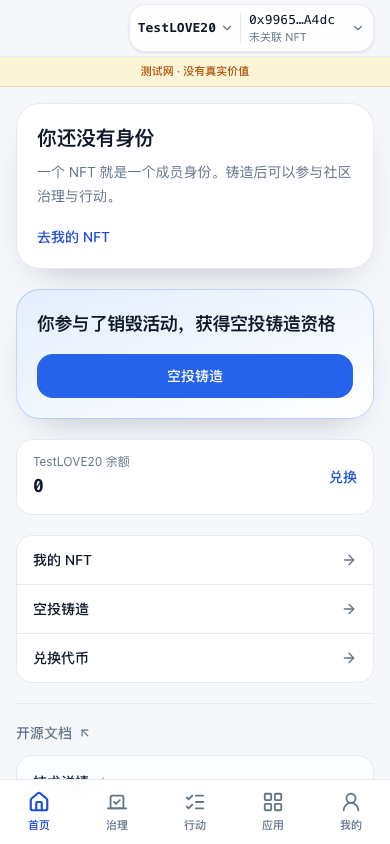
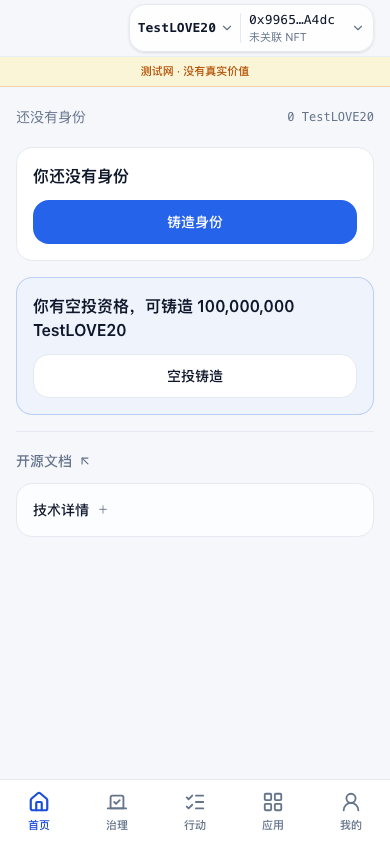
docs(product): document the reminder home, 我的 page and header rule
- §1.3: mobile home keeps the left community mark only while disconnected;
  once connected (including wrong chain) the top-right chip is the single
  community name. Desktop label and secondary pages unchanged.
- §3.1: rewritten as the reminder-feed model — connect entry, always-visible
  thin line into /me, fixed-order reminder cards (no identity, eligible
  airdrop, unconfirmed tx deferred), and exactly one muted sentence when
  nothing applies. Removed the three entry rows and the identity/balance cards.
- §3.7 (new): 我的 carries identity (name + #memberId, 切换身份/转让/查看全部)
  and balance (formatted + 兑换), then the account/version/docs blocks; no
  filled button, all copy in the copy modules.
- §3.2 entry points and the §6 walkthrough steps follow the new home.
- Regenerated the 390×844 evidence: home-disconnected,
  home-connected-with-identity, home-airdrop-eligible, home-wrong-network,
  home-no-identity, me-profile; retired home-connected-no-identity (superseded
  by home-no-identity with the new reminder layout).

diff --git a/docs/product/m0-ux-spec.md b/docs/product/m0-ux-spec.md
@@ -34,30 +34,30 @@
 | 2 | 治理 | `/governance?symbol=` | `Vote` | 占位 |
 | 3 | 行动 | `/actions?symbol=` | `ListChecks` | 占位 |
 | 4 | 应用 | `/apps?symbol=` | `LayoutGrid` | 可用（功能页目录） |
-| 5 | 我的 | `/me?symbol=` | `UserRound` | 占位 |
+| 5 | 我的 | `/me?symbol=` | `UserRound` | 可用（身份 + 余额） |
 
 - **「应用」取代「链群」（2026-11-11 owner 决定）**：第 4 项是功能页目录 `/apps?symbol=`（图标 `LayoutGrid`），把创世空投、身份 NFT、代币兑换以及今后独立的功能页集中管理。**未来页面只加一条目录数据，不加导航代码**；功能页多起来后按条目的 `category` 自动分组（≥2 个分类才出现分组标题）。`/group` 路由保留给旧深链（占位页，不 404），但底栏不再出现「链群」。
 
 - 移动端：24px 图标 + 11px 标签，激活态用实心图标 + 强调色；**不做中央凸起**——凸起会把一个不可用功能伪装成主入口（参考实现把「社区行动」凸起，实际是 M2 能力）。
 - 桌面侧栏：5 项同序，激活项左侧 3px 指示条；顶部折叠按钮，折叠状态记在 `love20:v1:<chainId>:ui:<wallet>:sidebar`；底部放版本号 + 测试网徽标 + 「合约地址」入口（与钱包弹层同一弹层）。
-- **占位页不是空白**：标题 + 「即将上线」徽标 + 一句将提供什么 + 一句为什么现在没有 + 「回首页」。文案：治理「用身份对提案投票，按治理轮结算。M0 只做身份与兑换，这一页还没有内容。」；行动「链群行动、链群服务、LP 行动将在后续版本开放。」；我的「个人中心还在做。现在可以从首页或右上角进入『我的 NFT』。」（「我的」额外给一个「去我的 NFT」文字链）。`/group` 的旧占位页仍在，供旧深链打开，但不再是主导航项。
+- **占位页不是空白**：标题 + 「即将上线」徽标 + 一句将提供什么 + 一句为什么现在没有 + 「回首页」。文案：治理「用身份对提案投票，按治理轮结算。M0 只做身份与兑换，这一页还没有内容。」；行动「链群行动、链群服务、LP 行动将在后续版本开放。」。我的不再是占位页：它承接身份与余额（§3.7）。`/group` 的旧占位页仍在，供旧深链打开，但不再是主导航项。
 - 底部栏不显示徽标计数；经典「红点」留给以后有真实未读时再用。
 
 ### 1.3 页面头部规则
 
 | 页面类型 | 左 | 中 | 右 |
 |---|---|---|---|
-| 一级（首页） | 移动端（<md）：无（**不渲染品牌字标**）；桌面（≥md）：「首页」文字标签（社区名在左侧栏顶部） | — | 完整药丸（chip + 地址/身份）；已连接时它是移动端页头唯一的社区名位置 |
+| 一级（首页） | 移动端（<md）：**未连接时**社区 `symbol()`（无社区/未知回退「LOVE20协议」）；已连接（含错网络）隐藏。桌面（≥md）：「首页」文字标签（社区名在左侧栏顶部） | — | 完整药丸（chip + 地址/身份）；已连接时它是移动端页头唯一的社区名位置 |
 | 二级（我的 NFT / 铸造身份 / 空投铸造 / 兑换代币 / 应用） | 返回按钮 44×44 | 标题，单行 `truncate`，最长 8 字 | 药丸：chip 收成 28px 首字符圆徽（<480px），右触发区保留 |
 | 占位页 | 返回按钮 44×44 | 标签名（治理 / 行动 / 我的；`/group` 旧深链为「链群」） | 药丸：chip 收成 28px 首字符圆徽（<480px），右触发区保留 |
 | 收据态（页面内状态） | 「关闭」→ 首页 | 结果标题（铸造成功 / 兑换完成 / 已铸造） | 紧凑药丸（仅右触发区） |
 
-- **移动端首页没有左侧品牌字标（2026-11-11 owner 决定）**：页头左侧原来渲染当前社区 `symbol()`，与右上角 chip 重复。现在移动端首页页头只有右上角药丸；已连接时社区名由药丸的 chip 承载，桌面端由左侧栏顶部字标承载，二级页与占位页由标题承载。**已知后果（刻意接受的取舍，待 owner 最终确认）**：钱包未连接时右上角只有「连接钱包」，因此移动端首页页头完全不显示社区名；不为此新增第二处社区名或第二个连接入口。
+- **移动端首页：未连接保留左侧标识，连上后由右上角 chip 承担（2026-11-11 owner 决定）**：未连接时右上角只有「连接钱包」，左侧社区标识是移动端唯一社区名；连上后（含错网络）左侧标识隐藏，社区名由右上角药丸的 chip 承载。桌面端仍由左侧栏顶部字标承载，二级页与占位页由标题承载。左侧标识是文字标签，不是第二个首页链接；不新增第二处社区名或第二个连接入口。
 - 返回：有历史 → `back`；无历史（直接打开深链）→ 回首页。始终有返回，深链不产生无出口页面。
 - 页内标题只描述页面，不重复社区名；社区名在 chip 里。避免「铸造身份 · FOO」这种双标题。
 - **社区名 = `symbol()`；`name()` 只用于技术详情/调试信息，不进主界面。** 只要界面出现「当前社区的名字」——桌面侧栏品牌行、右上角社区 chip、含社区名的页面标题、任何元信息行——一律渲染链上 `symbol()`（如 `TestLOVE20`）。没有选中/未知社区时，这些位置回退到协议标签「LOVE20协议」——它命名的是协议，不是一个代币社区；LOVE20 社区被选中时，社区名就是它自己的 `symbol()`「LOVE20」。页内标题原则上仍不重复社区名（见上一条）；若某个页内标题确实带上社区，用 `symbol()`。`name()` 是形如 `<子币 symbol>@<父币 symbol>` 的复合技术标识（如 `TestLOVE20@TestWETH`），不是显示名，不得用作社区名。
 - **浏览器标签页标题**：有当前社区时 `<页面> · <社区 symbol>`；没有选中/未知社区时只写「LOVE20协议」。社区名同样取 `symbol()`，不用 `name()`。
-- 药丸在手机与桌面位置相同（右上角），不做第二处连接入口，也不在移动端页头另设品牌字标；社区名只由药丸 chip（已连接时）、桌面侧栏或页内标题承载。
+- 药丸在手机与桌面位置相同（右上角），不做第二处连接入口；移动端社区名只由未连接时的左侧标识或连上后的药丸 chip 承载。
 
 ### 1.4 右上角连接药丸
 
@@ -157,48 +157,47 @@
 
 ### 3.1 首页
 
-**用户一句话目标**：打开就知道「我是谁、现在该做什么」。
-**进入条件与前置**：可未连接浏览；`?symbol=` 缺省补首币；身份取自本地选择并已按 `ownerOf` 校验。空投资格来自快照懒加载 chunk（见下），**不进入首屏包，也不阻塞身份区**。
+**用户一句话目标**：打开就知道「有没有需要我处理的事」；没有就保持干净。
+**定位（2026-11-11 owner 决定）**：首页是**提醒流**，不是导航页。导航入口在「应用」目录（§3.6）；身份与余额的完整信息在「我的」（§3.7），首页只保留一条细行。没有重要信息或事项需要提醒时，首页应该很干净。
+**进入条件与前置**：可未连接浏览；`?symbol=` 缺省补首币；身份取自本地选择并已按 `ownerOf` 校验。空投资格来自快照懒加载 chunk（见下），**不进入首屏包，也不阻塞细行与无身份提醒**。
 
-**区块顺序**
-1. **身份区（首屏）** — 三态（另单独处理身份失效）：
-   - 未连接：身份说明「一个钱包可以拥有多个身份，身份才是参与凭证。」+「连接钱包」（与右上角药丸是同一个连接动作与状态，不新增第二套连接入口）。
-   - 已连接、无身份：「你还没有身份」+「去我的 NFT」文字入口。**首页不做铸造判断**：不出现「铸造身份」主 CTA，也不按 LOVE20 余额或空投资格决定去向；铸造由「我的 NFT」空态与 §3.3 承接。
-   - 已连接、有身份：「你好，{memberName}」+ `#{memberId}` +「切换身份」文字入口（→ 我的 NFT，页内用「使用此身份」完成本地切换）。
-   - 身份失效（`ownerOf` 不符）：清除本地选择，中性提示「这个身份已不属于当前钱包」，回落到无身份形态（仍持有其他身份时状态为「未选择身份」，一个都没有时才是「无身份」），不指责用户。
-2. **空投资格卡（条件出现，全页唯一主 CTA）** — **仅当**钱包在快照中有未铸造条目且 `claimableAmount(...) > 0` 时出现。卡内只有标题「你参与了销毁活动，获得空投铸造资格」与主按钮「空投铸造」；**没有副标题、没有解释句**（金额在 §3.4 展示）。按钮跳转空投铸造页并保留当前 `?symbol=`。
-3. **余额一行** — `LOVE20` 余额（精确，2 位），右侧「兑换」文字链；不展示 BNB（在钱包弹层里）。
-4. **三个常驻导航入口** — 我的 NFT / 空投铸造 / 兑换代币，纯文字行，不与主按钮同色。入口行只是导航，**不代表空投资格**；资格只由第 2 块决定。
-5. **页脚** — 开源文档链接「开源文档」→ `https://love20bsc.github.io/docs/`（新标签打开）。其下是默认折叠的「技术详情」，收版本号与 LOVE20 / MemberNFT / Airdrop / Router / 交易对地址 + 区块浏览器链接（与 §1.6 钱包弹层的「合约地址」同源）。合约地址与版本号不再直接铺在页脚；测试网横幅仍按 §1.7 全局渲染。
+**区块顺序（自上而下，每一块都条件渲染）**
+1. **未连接 → 连接入口** — 说明「一个钱包可以拥有多个身份，身份才是参与凭证。」+「连接钱包」（与右上角药丸是同一个连接动作与状态，不新增第二套连接入口）。
+2. **细行（常驻）** — 单行、无卡片边框、整行可点 → `/me`（保留当前 `?symbol=` 与其他 query）。左 = 当前身份名（如 `Testdev-member-0`；没有/未选择当前身份为「还没有身份」，读取中或未知为「—」），名称 `truncate`；右 = 当前社区代币余额 `99,799,100 TestLOVE20`（走 `formatTokenAmount`，未知为「—」）。**没有「你好」问候、没有身份胶囊、没有「切换身份」按钮**；名称与余额都不换行，390px 下仍是单行。
+3. **提醒卡（按固定顺序，仅适用时出现）**
+   - **无身份**：「你还没有身份」+「铸造身份」→ `/mint`。
+   - **有空投资格且未铸造**：「你有空投资格，可铸造 {X} {symbol}」+「空投铸造」→ `/airdrop`（保留当前 `?symbol=`）。`X` 来自 `claimableAmount`；金额或首币 symbol/decimals 读不到时**省略金额分句**（只写「你有空投资格」），绝不把「—」写进句子里。
+   - **有未确认交易**：「1 笔交易还没确认」+「查看」。**M0 未实现**：今天三个写流程各自持久化自己的记录（`mintTask` / `airdropClaim` / `swapReceipt`），没有统一的 pending-tx 读取模型；在出现单一持久化 pending 辅助函数前，这张卡不渲染，也不伪造数量（见 `home-page.tsx` 的 TODO）。
+4. **没有适用项** — 只有一句弱化文案「现在没有需要你处理的事。」，没有提醒卡、没有实心按钮。
+5. **页脚（不变）** — 开源文档链接「开源文档」→ `https://love20bsc.github.io/docs/`（新标签打开）。其下是默认折叠的「技术详情」，收版本号与社区代币 / MemberNFT / Airdrop / Router / 交易对地址 + 区块浏览器链接（与 §1.6 钱包弹层的「合约地址」同源）。
 
-**快照加载与资格卡显隐**
-- 空投快照 JSON 是**首屏渲染之后才 `import()` 的懒加载 chunk**：身份区、余额与入口先可用，快照数据就绪后资格卡原地出现；**不预留占位、不显示骨架、不阻塞或替换身份区**。
-- 快照未就绪 → 不显示资格卡；钱包不满足资格 → 不显示资格卡，也不写「无资格」或「无需操作」。
-- chunk 读取失败 → 页内一行低权重「空投资格暂时读不到」+「重试」，**不出现资格卡**。
+**已移除（2026-11-11）**：三个常驻入口行（我的 NFT / 空投铸造 / 兑换代币，已在 `/apps`）；独立的身份卡与余额卡（身份与余额去 §3.7）；首页不再按 LOVE20 余额不足追加提醒，也不出现「无需操作」静默态之外的额外说明。
+
+**快照加载与提醒卡显隐**
+- 空投快照 JSON 是**首屏渲染之后才 `import()` 的懒加载 chunk**：细行与无身份提醒先可用，快照数据就绪后空投提醒卡原地出现；**不预留占位、不显示骨架、不阻塞细行**。
+- 快照未就绪 → 不显示空投提醒卡；钱包不满足资格 → 不显示卡，也不写「无资格」。
+- chunk 读取失败 → 不显示空投提醒卡；首页保持干净（不额外造一行错误文案）。
+
+**实心按钮**：一屏最多一个实心按钮。只有第一张出现的提醒卡提供它：无身份卡在前，所以同时存在时它用实心，空投卡用描边；只有空投卡时它是实心。未连接时实心按钮是「连接钱包」。细行与页脚永远不是实心按钮。
 
 **状态与错误**
-- 未连接 · 加载（身份区与余额骨架，最多 1.5s）· 无身份 · 有身份 · 身份失效 · 资格卡出现 · 资格卡不出现 · 错误（身份 / 余额 / 资格）· pending（顶部任务条，不遮页面）。
-- 任何错误态都提供「重试」：身份或余额读不到 → 对应区域显示错误行 + 「重试」，不渲染 `0`、不伪装成无身份或零余额；资格读不到 → 见上。
-- 任一屏最多一个实心按钮：未连接时是「连接钱包」；有资格时是「空投铸造」；其余情况不出现实心按钮。
+- 未连接 · 加载（细行「—」）· 无身份 · 有身份 · 身份失效（清除本地选择，中性回落到无身份/未选择，不指责用户）· 空投卡出现 · 空投卡不出现 · 错误。
+- 任何未知值用「—」，不渲染 `0`、不伪装成无身份或零余额；首页不新增错误气泡，重试入口留在「我的」与各任务页。
 
-**主 CTA 与次要入口**：有资格时唯一主 CTA 是资格卡内的「空投铸造」；无资格时没有主 CTA，只有身份区与入口行的文字入口。身份区的「去我的 NFT / 切换身份」与入口行均为文字链，不与主按钮同色同权。
-**死路处理**：不设「无需操作」态。首页是导航页而不是任务终局：身份区始终给出下一步（连接 / 去我的 NFT / 切换身份），入口行常驻，因此资格卡缺席不会被读成「漏了什么」；无需额外静默文案。
-**加载骨架**：身份区两行短条 + 余额一行灰条 + 入口行灰条；资格卡不占位、不出骨架。
 **验收**
-- 未连接打开：看到「连接钱包」与身份说明，并能连接。
-- 连接后无身份：看到「你还没有身份」与「去我的 NFT」；不出现「铸造身份」主 CTA，也不因 LOVE20 余额或空投状态改判去向。
-- 连接后有身份：看到「你好，{memberName}」+ `#id` +「切换身份」，点「切换身份」进入我的 NFT。
-- 有资格：资格卡出现，标题与按钮文案逐字正确，且没有副标题 / 解释句；点按钮进入空投铸造页。
-- 无资格：资格卡不出现，页面其余内容正常，且没有任何「无需操作」文案。
-- 资格读取失败：出现「空投资格暂时读不到」+「重试」，不出现资格卡，身份区不受影响。
-- 身份被转走后刷新：看到中性提示「这个身份已不属于当前钱包」，回落到无身份形态（仍持有其他身份时是「未选择身份」），不出现任何指向旧身份的操作。
-- 快照 chunk 晚于首屏：身份区先可用，卡片在数据就绪后出现，不遮挡、不阻塞身份区。
-- 任一屏最多一个实心按钮。
+- 未连接打开：左侧社区标识可见；看到「连接钱包」与细行，细行为 `/me` 链接。
+- 连接后有身份、无事可做：左上标识消失；细行显示 `{memberName}` 与带千分位的 `{余额} {symbol}`；页面只有「现在没有需要你处理的事。」这一句，实心按钮 = 0。
+- 连接后无身份：出现「你还没有身份」+「铸造身份」，点击进入 `/mint`。
+- 有资格：出现「你有空投资格，可铸造 {X} {symbol}」+「空投铸造」，点击进入 `/airdrop` 并保留 `?symbol=`；金额未知时句子里没有「—」。
+- 无资格：空投提醒卡不出现。
+- 身份被转走后刷新：中性提示语义由「我的」承担；首页回落到无身份提醒，不出现指向旧身份的操作。
+- 快照 chunk 晚于首屏：细行先可用，提醒卡在数据就绪后出现，不遮挡、不阻塞细行。
+- 任一屏最多一个实心按钮；390px 下细行不换行。
 
 ### 3.2 我的 NFT
 
 **用户一句话目标**：看清我有几个身份、现在用哪个，并立即换一个。
-**进入条件与前置**：需连接（页内连接）；从首页入口或钱包弹层身份行进入。身份列表 = `balanceOf(wallet)` + `tokenOfOwnerByIndex(wallet, i)`（Multicall3 批量）+ `memberName(tokenId)`。
+**进入条件与前置**：需连接（页内连接）；从「应用」目录、`我的`页身份块（§3.7）或钱包弹层身份行进入。身份列表 = `balanceOf(wallet)` + `tokenOfOwnerByIndex(wallet, i)`（Multicall3 批量）+ `memberName(tokenId)`。
 
 **布局（参照参考实现的同页，只取结构）**
 - `<md`：**卡片行**，一个身份一张卡，卡内依次是 `#memberId`、`memberName`、当前身份 pill 与操作。
@@ -405,6 +404,26 @@
 - 本构建缺少 Airdrop 地址时，创世空投一行是禁用态并写明原因，点它不导航；其余已配置的条目照常可点。
 - 页面上没有实心按钮。
 
+### 3.7 我的
+
+**用户一句话目标**：看清我是谁、有多少余额，并在这里切换身份或去兑换。
+**进入条件与前置**：底栏第 5 项「我的」（`/me?symbol=`）；可未连接浏览，未连接时身份与余额显示为不可用，不发起假数据。**身份与余额从首页卡片移到这里（2026-11-11 owner 决定）**，首页只留一条细行（§3.1）。
+
+**区块顺序**
+1. **我的身份** — 当前身份名 + `身份 #{memberId}`；文字链「切换身份」「转让」「查看全部」都进入 `/my-nft`（保留当前 `?symbol=`；转让在「我的 NFT」行内抽屉完成）。无身份 → 「你还没有身份」+「铸造身份」→ `/mint`。持有身份但未选择 → 「还没有选择当前身份」+「切换身份 / 查看全部」。身份失效 → 中性提示「这个身份已不属于当前钱包，已为你清除选择。」并回落到无身份/未选择。读取中显示「读取身份中…」；读不到显示「身份暂时读不到」+「重试」。
+2. **我的余额** — 当前社区代币余额（精确值，走 `formatTokenAmount`，如 `99,799,100 TestLOVE20`），同行右侧「兑换」文字链 → `/swap?symbol=`（保留当前社区）。社区代币在本构建未配置 → 一行诚实的不可用说明「这个环境还没有配置社区代币，暂时看不到余额。」，不显示「兑换」。
+3. **账户** — 钱包地址（缩写）/ 未连接；网络名与链 ID。
+4. **关于** — 版本（build id + 变体）与「开源文档」链接。
+
+**主 CTA 与次要入口**：本页是设置式列表，**没有实心按钮**；所有动作都是文字链，符合「一屏最多一个实心按钮」。
+**文案**：全部在 `copy-pages.ts` 的 `me` 命名空间（懒加载页 chunk）。
+**验收**
+- 有身份打开：看到名字、`身份 #{memberId}`、三个进入「我的 NFT」的文字链。
+- 余额：显示当前社区代币的千分位余额与「兑换」链接，链接保留 `?symbol=`。
+- 无身份：显示「你还没有身份」+「铸造身份」，点击进入 `/mint`。
+- 未配置社区代币：显示不可用说明，不显示余额与「兑换」。
+- 全页没有实心按钮。
+
 ## §4 横切交互规范
 
 ### 4.1 授权 → 执行：按钮阶梯
@@ -476,8 +495,8 @@
 
 **前置**：`vite preview --base=/<repo>/` 跑构建产物（不是 dev server）；Playwright + 注入型测试钱包（EIP-1193 stub + 本地私钥签名）；链 = 本地 anvil 31337，`make bootstrap` 起链并 seed：首币池注入 **200,000 LOVE20 + 100 WETH**（`SEED_LIQUIDITY_TOKEN_AMOUNT=2e23`、`SEED_LIQUIDITY_PARENT_TOKEN_AMOUNT=1e20`，见 ADR-0004）；dev 的地址与 ABI 只读 `anvil/export/deployments/anvil31337_dev.json` 与 `anvil/export/abis/*.json`（前端消费副本 `src/config/deployments/anvil31337_dev.json`）。fixture 的 anvil 0–9 号账户都在快照内（0–4 已铸造，5–9 有份额未铸造），所以主流程必须用**不在快照内**的新私钥（先从一个 anvil 账户转一点原生币（anvil：ETH）作 gas）。GitHub owner 与仓库名已定（`LOVE20BSC/interface-dev` / `interface-test` / `interface`，见 ADR-0002 §4），环境变体由 CI 按仓库名关键字选择（含 `dev` → dev，否则含 `test` → test，否则 prod；`vars.VITE_ENV` 可覆盖），发布命令为 `pnpm release-to <target>`（ADR-0002 §4）；**只有里程碑最终排期〔待定〕**。`--base` 由 CI 变量注入，脚本不得硬编码。
 
-1. **打开 `/` → 未连接 → 连接**：未连接态 = 品牌一句话 + 「连接钱包」；底部 5 tab 可见；逐个点占位页，都应看到「即将上线」、一句说明与「回首页」，无空白、无半成品表单。点「连接钱包」→ 药丸变为两区，URL 补上 `?symbol=<首币>`。
-2. **无身份 → 去我的 NFT**：首页身份区显示「你还没有身份」+「去我的 NFT」；**不出现「铸造身份」主 CTA、不出现「无需操作」，也不因 LOVE20 余额或空投资格改判去向**。点「去我的 NFT」→ 我的 NFT 空态「你还没有身份。」+「铸造身份」。
+1. **打开 `/` → 未连接 → 连接**：未连接态 = 左侧社区标识 + 「连接钱包」+ 细行；底部 5 tab 可见；治理/行动占位页显示「即将上线」、一句说明与「回首页」，无空白、无半成品表单。点「连接钱包」→ 左侧标识隐藏、药丸变为两区，URL 补上 `?symbol=<首币>`。
+2. **无身份 → 铸造身份**：首页提醒流显示「你还没有身份」+「铸造身份」；细行左侧为「还没有身份」。点「铸造身份」→ `/mint`。「我的」页同时显示无身份与「铸造身份」入口（§3.7）。
 3. **进入铸造页（从我的 NFT 空态的「铸造身份」）** → 名称可输入；费用卡出现「预计 {cost} LOVE20」，下方「我的 LOVE20：0」被标成不足；余额旁有次级「去兑换代币」文字链；不出现整页 spinner。
 4. **输入 7+ 字节且以 `Test` 开头的名字**（如 `Teste2e-member`）→ 检查行「可以用」；再输入一个不以 `Test` 开头的名字 → 看到「名称必须以 Test 开头」且不能提交；余额不足 → 资金分支卡出现。
 5. **点分支卡「用 BNB 兑换」**（本地 anvil 按环境包渲染为「用 ETH 兑换」）→ 落在兑换页且 URL 同时带 `?symbol=<首币>&from=<原生币>&to=<首币>`（不是当前子币）；在「从」输入 `0.05` 原生币（本地 anvil 为 `ETH`）→ 见「预计可得」、路径行与更小的「最少到账」。
@@ -486,8 +505,8 @@
 8. **回铸造页 → 「1 授权」** → 授权确认后**停在本页**，按钮就地变「铸造」，出现「✓ 已授权」。
 9. **「铸造」** → 收据：`#{memberId}` + 链上 `memberName` + 实际支付（`MemberMinted.cost`）+ 哈希；点「去我的 NFT」。
 10. **我的 NFT** → 摘要「持有 1 个身份」（一个也显示数量，不隐藏）；`<md` 为卡片行（`#id` + 名字 + 当前徽标），`≥md` 为 编号 / 名称 / 操作 三列表格；该行「当前」徽标且置顶着色；断开再连，身份仍被选中。
-11. **有身份 → 切换身份**：回首页 → 「你好，{memberName}」+ `#{memberId}` +「切换身份」；点「切换身份」→ 我的 NFT；首页任何状态都不出现「无需操作」。
-12. **有资格 → 资格卡出现且可点**：第二账号（anvil #5：fixture 给了 share、尚未铸造，而且没有身份——顺带验证资格卡与身份无关）→ 首页先渲染身份区，快照 chunk 就绪后出现资格卡（标题「你参与了销毁活动，获得空投铸造资格」+「空投铸造」，无副标题、无金额、不遮挡身份区）→ 进入空投铸造页 → S5 可铸造 → 点「空投铸造」→ 收据金额 = 回执 `AirdropClaimed.amount`；刷新后仍为 S6「已铸造」；换设备（清本地）后只显示「已铸造」。
+11. **有身份 → 细行 + 我的**：回首页 → 细行左侧 `{memberName}`、右侧 `{余额} {symbol}`，无问候、无「切换身份」；点细行 → 「我的」看到名字、`身份 #{memberId}`、余额与「兑换」；点「切换身份」→ 我的 NFT。
+12. **有资格 → 空投提醒卡出现且可点**：第二账号（anvil #5：fixture 给了 share、尚未铸造，而且没有身份——顺带验证提醒卡与身份无关）→ 首页先渲染细行与无身份提醒，快照 chunk 就绪后出现空投提醒卡（「你有空投资格，可铸造 {X} {symbol}」+「空投铸造」，不遮挡细行；两张卡同时存在时只有第一张用实心按钮）→ 进入空投铸造页 → S5 可铸造 → 点「空投铸造」→ 收据金额 = 回执 `AirdropClaimed.amount`；刷新后仍为 S6「已铸造」；换设备（清本地）后只显示「已铸造」。
 13. **无资格 → 该卡不出现**：换一个不在快照内的新钱包（同样由 anvil 账户转原生币（anvil：ETH）作 gas）→ 首页不出现资格卡，也没有「无资格」字样或「无需操作」；回到刚铸造完份额的 anvil #5 刷新 → 卡片同样消失（`claimableAmount` 已为 0）。
 14. **错误腿**：重名 → 「这个名字已经被用了。」；超额兑换 → 「{原生币} 不够…」；拒绝签名 → 「你在钱包里点了取消，没有扣款。」；三条都不出现 gas / allowance / nonce / `0x`。
 
